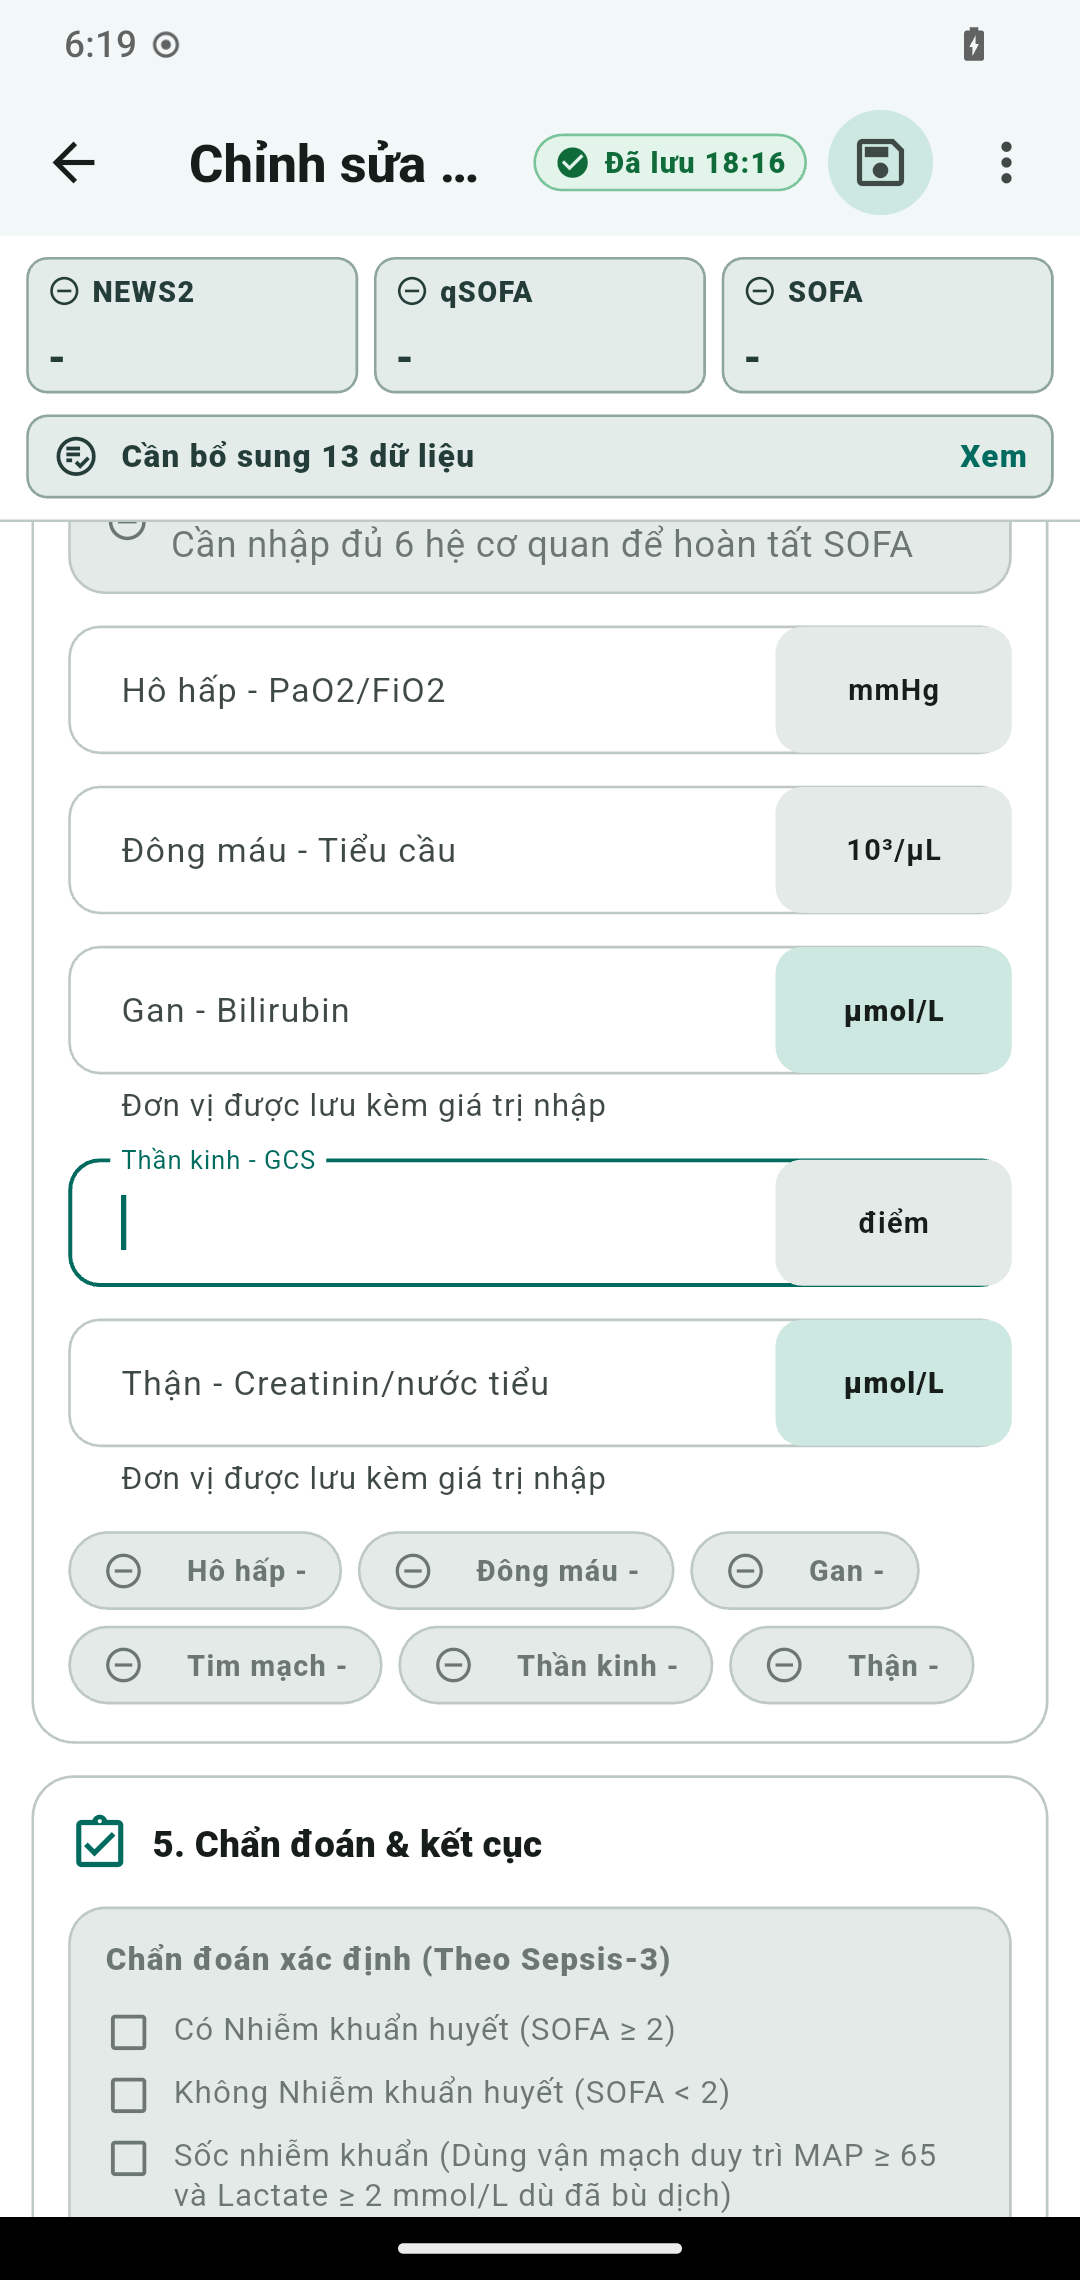
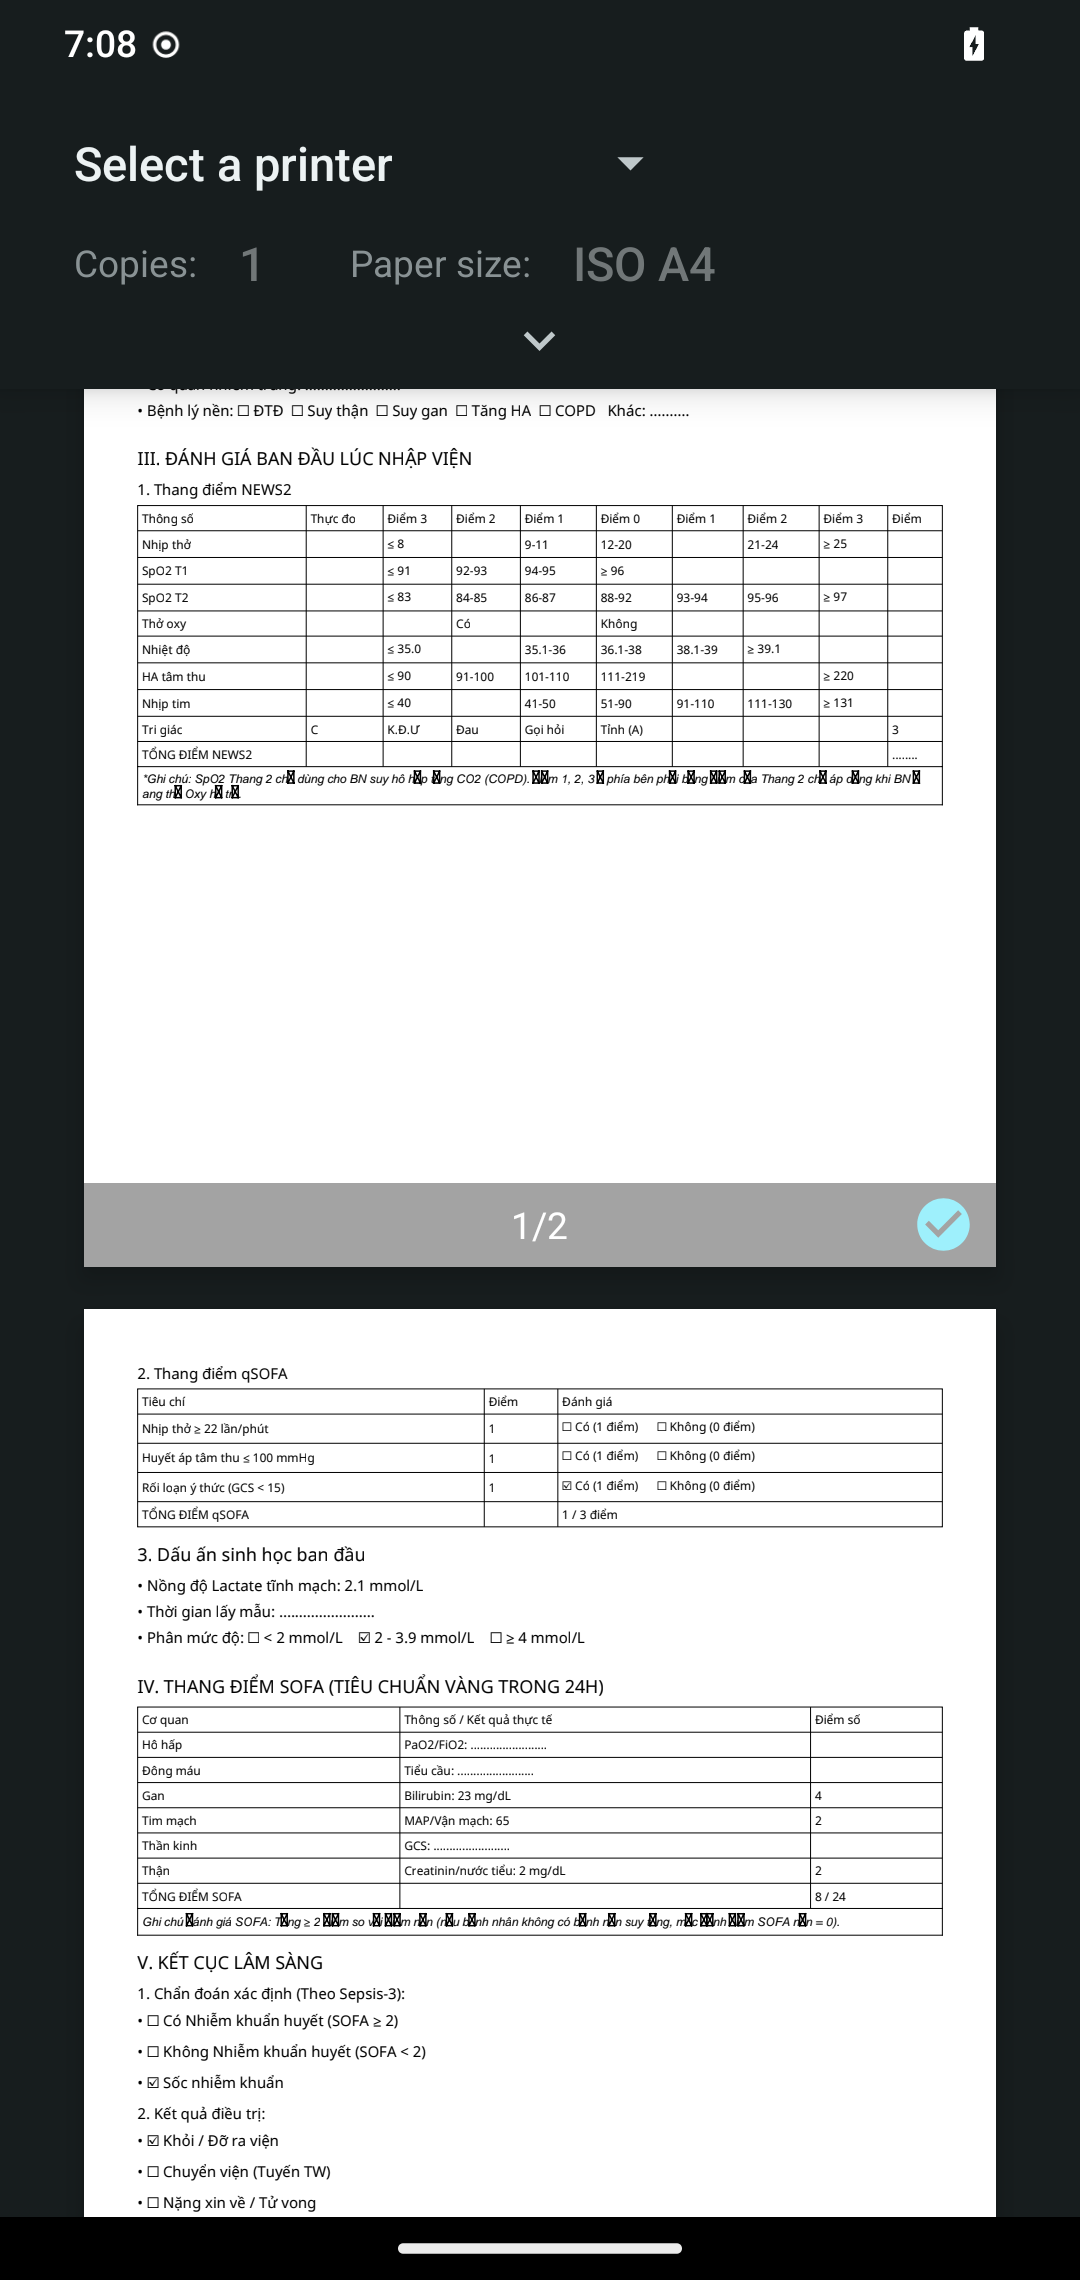
Refactor code structure for improved readability and maintainability

diff --git a/test/crf_exporter_test.dart b/test/crf_exporter_test.dart
@@ -7,10 +7,18 @@ import 'package:news2_l/src/domain/scoring.dart';
 import 'package:news2_l/src/export/crf_exporter.dart';
 
 void main() {
+  TestWidgetsFlutterBinding.ensureInitialized();
+
   test('DOCX export includes table notes and bolds selected NEWS2 range',
       () async {
     final assessment = ClinicalAssessment(
+      news2RespirationMeasured: '25',
+      news2Spo2Measured: '94',
+      news2OxygenMeasured: 'Có',
       news2TemperatureMeasured: '36',
+      news2SystolicBpMeasured: '100',
+      news2HeartRateMeasured: '120',
+      news2ConsciousnessMeasured: 'C',
       sofaLiverMeasured: '34.2',
       sofaLiverUnit: 'µmol/L',
       sofaRenalMeasured: '177',
@@ -37,13 +45,60 @@ void main() {
         'Ghi chú đánh giá SOFA: Tăng ≥ 2 điểm so với điểm nền (nếu bệnh nhân không có bệnh nền suy tạng, mặc định điểm SOFA nền = 0).',
       ),
     );
-    expect(
-      xml,
-      contains(
-        '<w:rPr><w:b/></w:rPr><w:t xml:space="preserve">35.1-36</w:t>',
-      ),
-    );
+    expect(xml, contains('w:rFonts w:ascii="Noto Sans"'));
+    expect(xml, contains('w:lang w:val="vi-VN"'));
+    expect(_hasBoldRun(xml, '≥ 25'), isTrue);
+    expect(_hasBoldRun(xml, '94-95'), isTrue);
+    expect(_hasBoldRun(xml, 'Có'), isTrue);
+    expect(_hasBoldRun(xml, '35.1-36'), isTrue);
+    expect(_hasBoldRun(xml, '91-100'), isTrue);
+    expect(_hasBoldRun(xml, '111-130'), isTrue);
+    expect(_hasBoldRun(xml, 'K.Đ.Ư'), isTrue);
     expect(xml, contains('Bilirubin: 34.2 µmol/L'));
     expect(xml, contains('Creatinin/nước tiểu: 177 µmol/L'));
   });
+
+  test('DOCX export bolds selected NEWS2 SpO2 scale 2 range', () async {
+    final assessment = ClinicalAssessment(
+      news2Spo2Scale2: true,
+      news2Spo2Measured: '95',
+    );
+    recalculateClinicalAssessment(assessment);
+
+    final xml = await _buildDocxXml(assessment);
+
+    expect(_hasBoldRun(xml, '95-96'), isTrue);
+  });
+
+  test('PDF export builds with Unicode note and checkbox fonts', () async {
+    final assessment = ClinicalAssessment(
+      news2ConsciousnessMeasured: 'C',
+      lactateLevel: '2 - 3.9 mmol/L',
+      sepsisDiagnosis: 'Sốc nhiễm khuẩn',
+      treatmentOutcome: 'Khỏi / Đỡ ra viện',
+    );
+    recalculateClinicalAssessment(assessment);
+
+    final bytes = await const CrfExporter().buildPdfBytes(assessment);
+
+    expect(bytes.length, greaterThan(1000));
+    expect(bytes.take(4), equals('%PDF'.codeUnits));
+  });
+}
+
+Future<String> _buildDocxXml(ClinicalAssessment assessment) async {
+  final bytes = await const CrfExporter().buildDocxBytes(assessment);
+  final archive = ZipDecoder().decodeBytes(bytes);
+  final document = archive.files.firstWhere(
+    (file) => file.name == 'word/document.xml',
+  );
+  return utf8.decode(document.content as List<int>);
+}
+
+bool _hasBoldRun(String xml, String text) {
+  final pattern = RegExp(
+    '<w:rPr>.*?<w:b/>.*?</w:rPr><w:t xml:space="preserve">${RegExp.escape(text)}</w:t>',
+    dotAll: true,
+  );
+  return pattern.hasMatch(xml);
 }

diff --git a/lib/src/export/crf_exporter.dart b/lib/src/export/crf_exporter.dart
@@ -62,17 +62,25 @@ class CrfExporter {
 
   Future<Uint8List> buildPdfBytes(ClinicalAssessment assessment) async {
     final fontBytes = await rootBundle.load('assets/fonts/NotoSans.ttf');
+    final boldFontBytes =
+        await rootBundle.load('assets/fonts/NotoSans-Bold.ttf');
+    final italicFontBytes =
+        await rootBundle.load('assets/fonts/NotoSans-Italic.ttf');
     final mathFontBytes =
         await rootBundle.load('assets/fonts/NotoSansMath-Regular.ttf');
     final symbolsFontBytes =
         await rootBundle.load('assets/fonts/NotoSansSymbols2-Regular.ttf');
     final font = pw.Font.ttf(fontBytes);
+    final boldFont = pw.Font.ttf(boldFontBytes);
+    final italicFont = pw.Font.ttf(italicFontBytes);
     final mathFont = pw.Font.ttf(mathFontBytes);
     final symbolsFont = pw.Font.ttf(symbolsFontBytes);
     final document = pw.Document();
     final theme = pw.ThemeData.withFont(
       base: font,
-      bold: font,
+      bold: boldFont,
+      italic: italicFont,
+      boldItalic: boldFont,
       fontFallback: [symbolsFont, mathFont],
     );
 
@@ -747,8 +755,11 @@ class CrfExporter {
         normalized.contains('DAU')) {
       return 3;
     }
-    if (normalized == 'U' ||
+    if (normalized == 'C' ||
+        normalized == 'U' ||
         normalized.contains('K.Đ') ||
+        normalized.contains('LÚ LẪN') ||
+        normalized.contains('LU LAN') ||
         normalized.contains('KHÔNG') ||
         normalized.contains('KHONG')) {
       return 2;
@@ -867,16 +878,18 @@ class CrfExporter {
   static void _paragraph(StringBuffer buffer, String text,
       {bool bold = false, bool italic = false}) {
     buffer.write('<w:p><w:r>');
-    if (bold || italic) {
-      buffer.write('<w:rPr>');
-      if (bold) {
-        buffer.write('<w:b/>');
-      }
-      if (italic) {
-        buffer.write('<w:i/>');
-      }
-      buffer.write('</w:rPr>');
+    buffer.write('<w:rPr>');
+    buffer.write(
+      '<w:rFonts w:ascii="Noto Sans" w:hAnsi="Noto Sans" w:eastAsia="Noto Sans" w:cs="Noto Sans"/>',
+    );
+    buffer.write('<w:lang w:val="vi-VN" w:eastAsia="vi-VN" w:bidi="vi-VN"/>');
+    if (bold) {
+      buffer.write('<w:b/>');
     }
+    if (italic) {
+      buffer.write('<w:i/>');
+    }
+    buffer.write('</w:rPr>');
     buffer.write('<w:t xml:space="preserve">${_escapeXml(text)}</w:t>');
     buffer.write('</w:r></w:p>');
   }

diff --git a/lib/src/ui/clinical_components.dart b/lib/src/ui/clinical_components.dart
@@ -490,13 +490,34 @@ class MedicalInputField extends StatelessWidget {
                           : (currentIndex + 1) % units.length;
                       onUnitChanged!(units[nextIndex]);
                     },
-              child: Text(
-                selected,
-                maxLines: 1,
-                overflow: TextOverflow.ellipsis,
-                style: theme.textTheme.labelSmall?.copyWith(
-                  fontWeight: canSwitchUnit ? FontWeight.w900 : FontWeight.w700,
-                ),
+              child: Row(
+                mainAxisAlignment: MainAxisAlignment.center,
+                mainAxisSize: MainAxisSize.min,
+                children: [
+                  Flexible(
+                    child: Text(
+                      selected,
+                      maxLines: 1,
+                      overflow: TextOverflow.ellipsis,
+                      style: theme.textTheme.labelSmall?.copyWith(
+                        color: canSwitchUnit
+                            ? const Color(0xFF006D5B)
+                            : theme.colorScheme.onSurfaceVariant
+                                .withValues(alpha: 0.72),
+                        fontWeight:
+                            canSwitchUnit ? FontWeight.w900 : FontWeight.w700,
+                      ),
+                    ),
+                  ),
+                  if (canSwitchUnit) ...[
+                    const SizedBox(width: 3),
+                    const Icon(
+                      Icons.swap_horiz,
+                      size: 14,
+                      color: Color(0xFF006D5B),
+                    ),
+                  ],
+                ],
               ),
             ),
           );

diff --git a/lib/src/ui/app.dart b/lib/src/ui/app.dart
@@ -23,6 +23,7 @@ class News2LApp extends StatelessWidget {
       title: 'NEWS2-L',
       theme: ThemeData(
         colorScheme: colorScheme,
+        fontFamily: 'Inter',
         scaffoldBackgroundColor: colorScheme.surfaceContainerLowest,
         useMaterial3: true,
         extensions: [